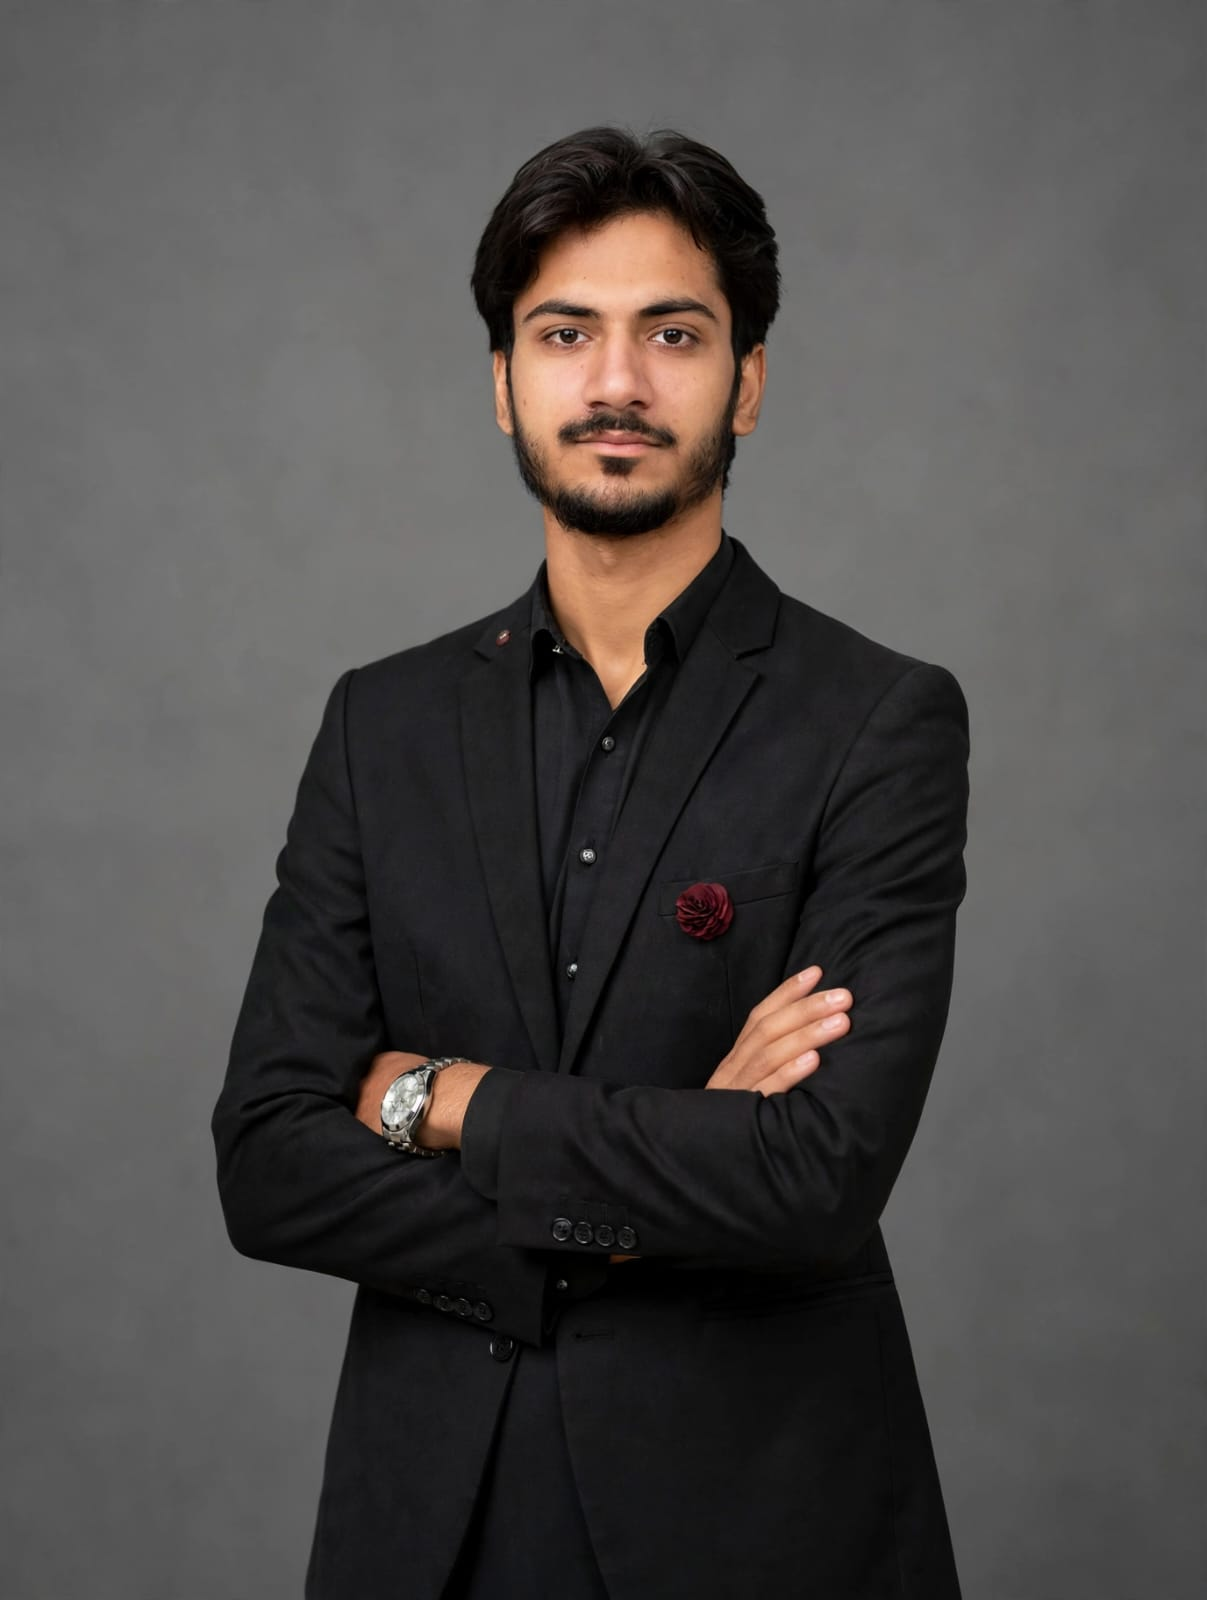
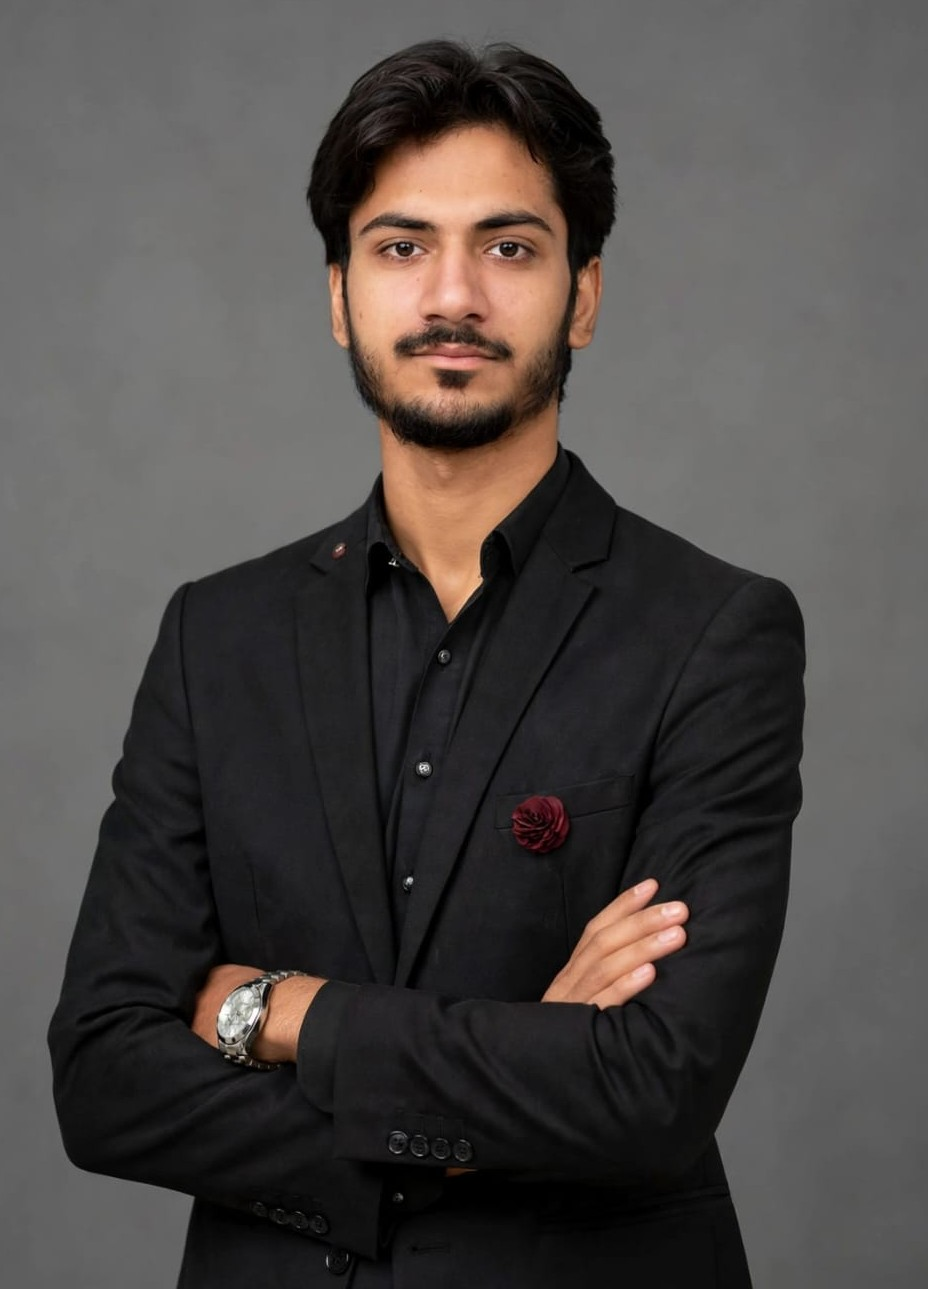
yar existing team member kie images ko improve kiya baki address change kiya or hai ak imp thing FAQ section add kiya hai abi ya website bilkul statich hai live nhi hai abi kafi kam baki hai

diff --git a/index.html b/index.html
@@ -57,6 +57,7 @@
         <a href="#services">Services</a>
         <a href="#calendar">Tax Calendar</a>
         <a href="#team">Team</a>
+        <a href="#faq">FAQs</a>
         <a href="#contact">Contact</a>
       </nav>
     </div>
@@ -82,10 +83,13 @@
         </div>
         <div class="hero-photo-wrap">
           <img class="hero-photo" src="assets/Qummar Waheed.jpg" alt="Qummar Waheed, Managing Partner of QWCA">
-          <div class="hero-photo-badge" aria-hidden="true">
+          <div class="hero-photo-badge">
             <div class="hero-photo-badge-icon">FCA</div>
             <div class="hero-photo-badge-text">
-              <strong>Qummar Waheed, FCA</strong>
+              <a href="https://www.linkedin.com/in/qummar-waheed-aca-ab3b3164/" target="_blank"
+                rel="noopener noreferrer" aria-label="View Qummar Waheed's LinkedIn profile">
+                <strong>Qummar Waheed, FCA</strong>
+              </a>
               <span>Managing Partner · QWCA</span>
             </div>
           </div>
@@ -239,11 +243,22 @@
         <div class="team-head">
           <div class="partner">
             <div class="partner-photo-wrap">
-              <img class="partner-photo" src="assets/Qummar Waheed.jpg" alt="Qummar Waheed, FCA, Managing Partner">
+              <img class="partner-photo" src="assets/Lead CA.jpeg" alt="Qummar Waheed, FCA, Managing Partner">
             </div>
             <div>
               <span class="partner-tag">Firm head</span>
-              <h3>Qummar Waheed, FCA</h3>
+              <div class="partner-heading">
+                <h3><a href="https://www.linkedin.com/in/qummar-waheed-aca-ab3b3164/" target="_blank"
+                    rel="noopener noreferrer">Qummar Waheed, FCA</a></h3>
+                <a class="partner-linkedin" href="https://www.linkedin.com/in/qummar-waheed-aca-ab3b3164/"
+                  target="_blank" rel="noopener noreferrer" aria-label="View Qummar Waheed's LinkedIn profile">
+                  <svg width="16" height="16" viewBox="0 0 24 24" fill="currentColor" aria-hidden="true">
+                    <path
+                      d="M19 3a2 2 0 0 1 2 2v14a2 2 0 0 1-2 2H5a2 2 0 0 1-2-2V5a2 2 0 0 1 2-2h14m-.5 15.5v-5.3a3.26 3.26 0 0 0-3.26-3.26c-.85 0-1.84.52-2.28 1.3v-1.11h-2.79v8.37h2.79v-4.93c0-.77.62-1.4 1.39-1.4a1.4 1.4 0 0 1 1.4 1.4v4.93h2.75M6.46 8.76a1.45 1.45 0 0 0 1.45-1.45 1.46 1.46 0 0 0-2.91 0c0 .8.65 1.45 1.46 1.45m1.37 9.74v-8.37H5.09v8.37z" />
+                  </svg>
+                  <span>LinkedIn</span>
+                </a>
+              </div>
               <p class="partner-role"><strong>Managing Partner</strong></p>
               <p>Qummar leads the firm’s client work and provides guidance on audit, taxation, SECP compliance and
                 corporate advisory. He is committed to professional integrity, clear communication and dependable client
@@ -285,7 +300,8 @@
           </article>
           <article class="team-card">
             <div class="team-card-media">
-              <img class="team-member-thumb" src="assets/Rana Hammad.jpeg" alt="Muhammad Hammad Akram">
+              <img class="team-member-thumb team-member-thumb-top" src="assets/Rana Hammad.jpeg"
+                alt="Muhammad Hammad Akram">
             </div>
             <div class="team-card-body">
               <h3>M. Hammad Akram</h3>
@@ -298,7 +314,8 @@
           </article>
           <article class="team-card">
             <div class="team-card-media">
-              <img class="team-member-thumb" src="assets/Muhammad Hashaam.jpeg" alt="Muhammad Hasham">
+              <img class="team-member-thumb team-member-thumb-top" src="assets/Muhammad Hashaam.jpg"
+                alt="Muhammad Hasham">
             </div>
             <div class="team-card-body">
               <h3>Muhammad Hasham</h3>
@@ -322,6 +339,43 @@
           </article>
         </div>
 
+      </div>
+    </section>
+
+    <!-- FAQ Section -->
+    <section class="section faq" id="faq">
+      <div class="container">
+        <div class="section-heading">
+          <span class="eyebrow">Good to know</span>
+          <h2>Frequently Asked Questions</h2>
+          <p>Quick answers to common questions about working with QWCA.</p>
+        </div>
+        <div class="faq-list">
+          <details class="faq-item">
+            <summary>What services does QWCA provide?</summary>
+            <p>We provide taxation and advisory, audit and assurance, SECP and corporate services, and SEZ advisory.</p>
+          </details>
+          <details class="faq-item">
+            <summary>How can I arrange a consultation?</summary>
+            <p>Call our Faisalabad office or use the contact form below to tell us what support you need. Our team will
+              follow up with you.</p>
+          </details>
+          <details class="faq-item">
+            <summary>What should I bring to a consultation?</summary>
+            <p>Bring any documents related to your enquiry, such as previous tax returns, financial statements, or
+              company records. The documents needed depend on the service you require.</p>
+          </details>
+          <details class="faq-item">
+            <summary>Can you help with tax notices and compliance?</summary>
+            <p>Yes. We assist with tax compliance, notices, and representation. Contact us with details of your matter
+              so we can discuss the appropriate support.</p>
+          </details>
+          <details class="faq-item">
+            <summary>When are my tax returns due?</summary>
+            <p>Deadlines can vary by taxpayer and may change. Contact us with your taxpayer details to confirm the
+              applicable filing requirements and deadlines.</p>
+          </details>
+        </div>
       </div>
     </section>
 
@@ -373,7 +427,7 @@
               </div>
               <div class="contact-item-text">
                 <strong>Address</strong>
-                <span>Business 3-G Commercial, Jamal Plaza, 4st Floor, Main Boulevard, Wapda City, Faisalabad,
+                <span>20 - J Commercial Plaza, 4st Floor, Main Boulevard, Wapda City, Faisalabad,
                   Pakistan</span>
               </div>
             </div>
@@ -396,7 +450,17 @@
           <div class="contact-social-channels">
             <span class="social-channels-label">Connect with us directly:</span>
             <div class="social-pills-row">
-              <a href="https://www.linkedin.com/company/qummar-waheed-ca" target="_blank" rel="noopener noreferrer"
+              <a href="https://www.linkedin.com/in/qummar-waheed-aca-ab3b3164/" target="_blank"
+                rel="noopener noreferrer" class="social-pill linkedin"
+                aria-label="View Managing Partner Qummar Waheed's LinkedIn profile">
+                <svg width="20" height="20" viewBox="0 0 24 24" fill="currentColor" aria-hidden="true">
+                  <path
+                    d="M19 3a2 2 0 0 1 2 2v14a2 2 0 0 1-2 2H5a2 2 0 0 1-2-2V5a2 2 0 0 1 2-2h14m-.5 15.5v-5.3a3.26 3.26 0 0 0-3.26-3.26c-.85 0-1.84.52-2.28 1.3v-1.11h-2.79v8.37h2.79v-4.93c0-.77.62-1.4 1.39-1.4a1.4 1.4 0 0 1 1.4 1.4v4.93h2.75M6.46 8.76a1.45 1.45 0 0 0 1.45-1.45 1.46 1.46 0 0 0-2.91 0c0 .8.65 1.45 1.46 1.45m1.37 9.74v-8.37H5.09v8.37z" />
+                </svg>
+                <span>Qummar Waheed · Managing Partner</span>
+              </a>
+              <a href="https://www.linkedin.com/company/qummar-waheed-chartered-accountants/posts/?feedView=all"
+                target="_blank" rel="noopener noreferrer"
                 class="social-pill linkedin" aria-label="Follow QWCA on LinkedIn">
                 <svg width="20" height="20" viewBox="0 0 24 24" fill="currentColor" aria-hidden="true">
                   <path
@@ -405,7 +469,8 @@
                 <span>LinkedIn</span>
               </a>
 
-              <a href="https://www.facebook.com/qwca.pk" target="_blank" rel="noopener noreferrer"
+              <a href="https://www.facebook.com/p/Qummar-Waheed-Chartered-Accountants-61558036131738/"
+                target="_blank" rel="noopener noreferrer"
                 class="social-pill facebook" aria-label="Visit QWCA on Facebook">
                 <svg width="20" height="20" viewBox="0 0 24 24" fill="currentColor" aria-hidden="true">
                   <path
@@ -463,14 +528,16 @@
         <span class="footer-note">Website information is general guidance and is not professional advice.</span>
       </div>
       <div class="footer-social-links" aria-label="Official Social Channels">
-        <a href="https://www.linkedin.com/company/qummar-waheed-ca" target="_blank" rel="noopener noreferrer"
+        <a href="https://www.linkedin.com/company/qummar-waheed-chartered-accountants/posts/?feedView=all"
+          target="_blank" rel="noopener noreferrer"
           class="footer-social-icon linkedin" title="Follow on LinkedIn" aria-label="LinkedIn">
           <svg width="18" height="18" viewBox="0 0 24 24" fill="currentColor" aria-hidden="true">
             <path
               d="M19 3a2 2 0 0 1 2 2v14a2 2 0 0 1-2 2H5a2 2 0 0 1-2-2V5a2 2 0 0 1 2-2h14m-.5 15.5v-5.3a3.26 3.26 0 0 0-3.26-3.26c-.85 0-1.84.52-2.28 1.3v-1.11h-2.79v8.37h2.79v-4.93c0-.77.62-1.4 1.39-1.4a1.4 1.4 0 0 1 1.4 1.4v4.93h2.75M6.46 8.76a1.45 1.45 0 0 0 1.45-1.45 1.46 1.46 0 0 0-2.91 0c0 .8.65 1.45 1.46 1.45m1.37 9.74v-8.37H5.09v8.37z" />
           </svg>
         </a>
-        <a href="https://www.facebook.com/qwca.pk" target="_blank" rel="noopener noreferrer"
+        <a href="https://www.facebook.com/p/Qummar-Waheed-Chartered-Accountants-61558036131738/"
+          target="_blank" rel="noopener noreferrer"
           class="footer-social-icon facebook" title="Visit Facebook Page" aria-label="Facebook">
           <svg width="18" height="18" viewBox="0 0 24 24" fill="currentColor" aria-hidden="true">
             <path

diff --git a/style.css b/style.css
@@ -421,6 +421,63 @@
       margin: 0;
     }
 
+    /* FAQ Section */
+    .faq {
+      background: var(--bg-subtle);
+      border-top: 1px solid var(--line);
+      border-bottom: 1px solid var(--line);
+    }
+
+    .faq-list {
+      max-width: 860px;
+      border-top: 1px solid var(--line);
+    }
+
+    .faq-item {
+      border-bottom: 1px solid var(--line);
+    }
+
+    .faq-item summary {
+      position: relative;
+      padding: 20px 44px 20px 4px;
+      color: var(--navy-900);
+      font-weight: 700;
+      cursor: pointer;
+      list-style: none;
+    }
+
+    .faq-item summary::-webkit-details-marker {
+      display: none;
+    }
+
+    .faq-item summary::after {
+      content: "+";
+      position: absolute;
+      right: 8px;
+      top: 50%;
+      color: var(--primary);
+      font-size: 24px;
+      font-weight: 500;
+      line-height: 1;
+      transform: translateY(-50%);
+    }
+
+    .faq-item[open] summary::after {
+      content: "\2212";
+    }
+
+    .faq-item summary:focus-visible {
+      outline: 2px solid var(--primary);
+      outline-offset: 3px;
+    }
+
+    .faq-item p {
+      max-width: 760px;
+      margin: -4px 44px 20px 4px;
+      color: var(--text-muted);
+      font-size: 15px;
+    }
+
     /* Services Section */
     .services {
       display: grid;
@@ -669,6 +726,38 @@
       margin: 4px 0 6px;
     }
 
+    .partner-heading {
+      display: flex;
+      align-items: center;
+      flex-wrap: wrap;
+      gap: 12px;
+    }
+
+    .partner-linkedin {
+      display: inline-flex;
+      align-items: center;
+      gap: 6px;
+      padding: 6px 10px;
+      border: 1px solid rgba(10, 102, 194, 0.3);
+      border-radius: var(--radius-full);
+      background: #edf3f8;
+      color: #0a66c2;
+      font-size: 12px;
+      font-weight: 700;
+      line-height: 1;
+      transition: background 0.2s ease, color 0.2s ease;
+    }
+
+    .partner-linkedin:hover {
+      background: #0a66c2;
+      color: #ffffff;
+    }
+
+    .partner-linkedin:focus-visible {
+      outline: 2px solid #0a66c2;
+      outline-offset: 3px;
+    }
+
     .partner-role {
       color: var(--primary);
       font-weight: 700;
@@ -731,6 +820,10 @@
       box-shadow: 0 4px 12px rgba(15, 23, 42, 0.08);
       cursor: zoom-in;
       transition: transform 0.2s ease, box-shadow 0.2s ease;
+    }
+
+    .team-card-media .team-member-thumb-top {
+      object-position: center top;
     }
 
     .team-card-media .team-member-thumb:hover {
